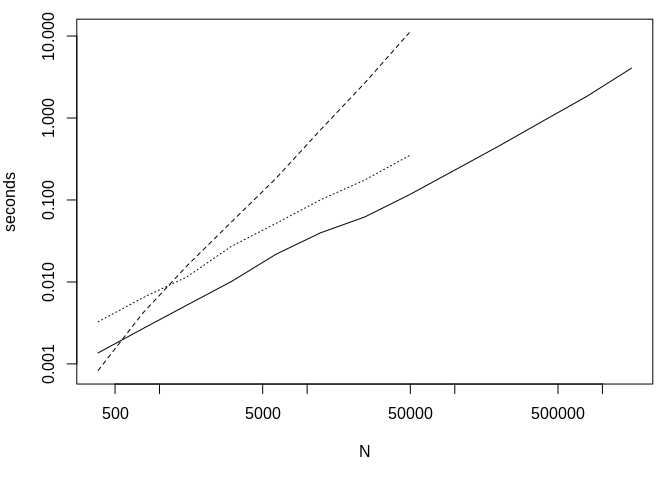
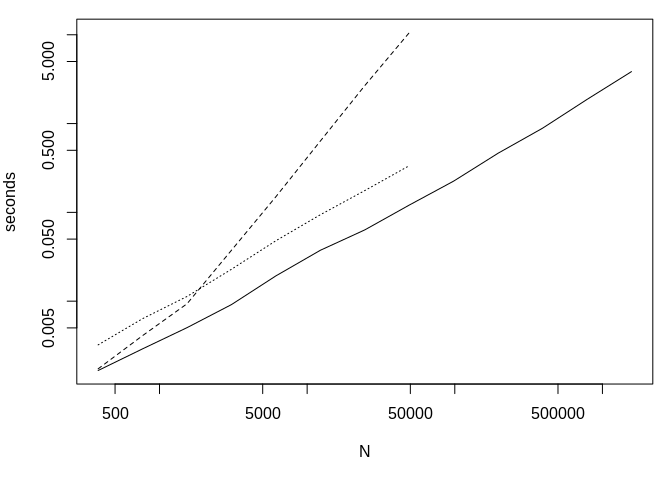
version 0.1.1

diff --git a/src/dists.h b/src/dists.h
@@ -144,6 +144,9 @@ public:
   virtual void comp_stats_state_state
     (const double*, const double*, const double, double*, const comp_out)
     const = 0;
+
+  /* returns the normalization constant */
+  virtual double get_log_norm_const() const = 0;
 };
 
 inline void check_input_mv_log_density_state
@@ -215,6 +218,10 @@ public:
   (const double*, const double*, const double, double*, const comp_out)
   const override final {
     throw logic_error("not implemented");
+  }
+
+  double get_log_norm_const() const override final {
+    return norm_const_log;
   }
 
   /* cdist overrides */
@@ -298,6 +305,10 @@ public:
    const override final
   {
     throw logic_error("not implemented");
+  }
+
+  double get_log_norm_const() const override final {
+    return norm_const_log;
   }
 
   /* proposal_dist overrides */
@@ -416,6 +427,10 @@ public:
   (const double *x, const double *y, const double log_w, double *stat,
    const comp_out what) const override final;
 
+  double get_log_norm_const() const override final {
+    return norm_const_log;
+  }
+
   /* cdist overrides */
   arma::uword state_dim() const override {
     return dim;
@@ -477,12 +492,10 @@ class mv_tdist : public cdist, public trans_obj, public proposal_dist {
   const std::unique_ptr<arma::vec> mu;
   const arma::uword dim;
   const double nu;
-  static double set_const
-    (const double nu, const double dim, const chol_decomp &chol_){
+  const double norm_const_log = ([&]{
     return std::lgamma((dim + nu) * .5) - lgamma(nu * .5) -
       std::log(nu * M_PI) * dim * .5 - .5 * chol_.log_det();
-  }
-  const double norm_const_log = set_const(nu, dim, chol_);
+  })();
 
   static double check_nu(const double nu){
 #ifdef MSSM_DEBUG
@@ -537,6 +550,10 @@ public:
   const override final
   {
     throw logic_error("not implemented");
+  }
+
+  double get_log_norm_const() const override final {
+    return norm_const_log;
   }
 
   /* proposal_dist overrides */

diff --git a/src/cloud.h b/src/cloud.h
@@ -23,13 +23,13 @@ public:
   particle_cloud& operator=(const particle_cloud&) = delete;
   particle_cloud(particle_cloud&&) = default;
 
-  const arma::uword N_particles() const {
+  arma::uword N_particles() const {
     return particles.n_cols;
   }
-  const arma::uword dim_particle() const {
+  arma::uword dim_particle() const {
     return particles.n_rows;
   }
-  const arma::uword dim_stats() const {
+  arma::uword dim_stats() const {
     return stats.n_rows;
   }
 

diff --git a/src/problem_data.h b/src/problem_data.h
@@ -59,7 +59,6 @@ public:
     const std::string&, cvec&, control_obj&&);
   problem_data(const problem_data&) = delete;
   problem_data& operator=(const problem_data&) = delete;
-  problem_data(problem_data&&) = default;
 
   /* returns an object to compute the conditional distribution of the
    * observed outcome at a given time given a state vector */

diff --git a/src/utils.h b/src/utils.h
@@ -104,7 +104,7 @@ public:
   const arma::mat& get_inv() const;
 
   /* returns the log determinant */
-  const double log_det() const {
+  double log_det() const {
     double out = 0.;
     for(arma::uword i = 0; i < chol_.n_cols; ++i)
       out += 2. * std::log(chol_(i, i));

diff --git a/src/laplace.cpp b/src/laplace.cpp
@@ -265,7 +265,7 @@ namespace {
       }
 
       if(!do_hess)
-        return { params, ll };
+        return { params, ll, false };
 
       /* use step halving. First, find direction. Then perform maximization */
       const arma::vec direction = ([&] {

diff --git a/src/kd-tree.h b/src/kd-tree.h
@@ -2,6 +2,7 @@
 #define KD_TREE_H
 #include "arma.h"
 #include "thread_pool.h"
+#include <array>
 
 #ifdef MSSM_DEBUG
 #include <iostream>

diff --git a/README.md b/README.md
@@ -2,22 +2,28 @@
 Multivariate State Space Models
 ===============================
 
-[![Build Status on Travis](https://travis-ci.org/boennecd/mssm.svg?branch=master,osx)](https://travis-ci.org/boennecd/mssm)
+[![Build Status on Travis](https://travis-ci.org/boennecd/mssm.svg?branch=master,osx)](https://travis-ci.org/boennecd/mssm) [![](https://www.r-pkg.org/badges/version/mssm)](https://www.r-pkg.org/badges/version/mssm) [![CRAN RStudio mirror downloads](https://cranlogs.r-pkg.org/badges/mssm)](https://cran.r-project.org/package=mssm)
 
 This package provides methods to estimate models of the form
 
-![y\_{it} \\sim g(\\eta\_{it}),\\qquad i\\in I\_t](https://chart.googleapis.com/chart?cht=tx&chl=y_%7Bit%7D%20%5Csim%20g%28%5Ceta_%7Bit%7D%29%2C%5Cqquad%20i%5Cin%20I_t "y_{it} \sim g(\eta_{it}),\qquad i\in I_t")
+![y\_{it} \\sim g(\\eta\_{it}),\\qquad i\\in I\_t](https://latex.codecogs.com/svg.latex?y_%7Bit%7D%20%5Csim%20g%28%5Ceta_%7Bit%7D%29%2C%5Cqquad%20i%5Cin%20I_t "y_{it} \sim g(\eta_{it}),\qquad i\in I_t")
 
-![\\eta\_{it} = \\vec\\gamma^\\top\\vec x\_{it} +\\vec\\beta\_t^\\top\\vec z\_{it}](https://chart.googleapis.com/chart?cht=tx&chl=%5Ceta_%7Bit%7D%20%3D%20%5Cvec%5Cgamma%5E%5Ctop%5Cvec%20x_%7Bit%7D%20%2B%5Cvec%5Cbeta_t%5E%5Ctop%5Cvec%20z_%7Bit%7D "\eta_{it} = \vec\gamma^\top\vec x_{it} +\vec\beta_t^\top\vec z_{it}")
+![\\eta\_{it} = \\vec\\gamma^\\top\\vec x\_{it} +\\vec\\beta\_t^\\top\\vec z\_{it}](https://latex.codecogs.com/svg.latex?%5Ceta_%7Bit%7D%20%3D%20%5Cvec%5Cgamma%5E%5Ctop%5Cvec%20x_%7Bit%7D%20%2B%5Cvec%5Cbeta_t%5E%5Ctop%5Cvec%20z_%7Bit%7D "\eta_{it} = \vec\gamma^\top\vec x_{it} +\vec\beta_t^\top\vec z_{it}")
 
-![\\vec\\beta\_t = F\\vec\\beta\_{t-1}+\\vec\\epsilon\_t, \\qquad \\vec\\epsilon\_t\\sim N(\\vec 0, Q)](https://chart.googleapis.com/chart?cht=tx&chl=%5Cvec%5Cbeta_t%20%3D%20F%5Cvec%5Cbeta_%7Bt-1%7D%2B%5Cvec%5Cepsilon_t%2C%20%5Cqquad%20%5Cvec%5Cepsilon_t%5Csim%20N%28%5Cvec%200%2C%20Q%29 "\vec\beta_t = F\vec\beta_{t-1}+\vec\epsilon_t, \qquad \vec\epsilon_t\sim N(\vec 0, Q)")
+![\\vec\\beta\_t = F\\vec\\beta\_{t-1}+\\vec\\epsilon\_t, \\qquad \\vec\\epsilon\_t\\sim N(\\vec 0, Q)](https://latex.codecogs.com/svg.latex?%5Cvec%5Cbeta_t%20%3D%20F%5Cvec%5Cbeta_%7Bt-1%7D%2B%5Cvec%5Cepsilon_t%2C%20%5Cqquad%20%5Cvec%5Cepsilon_t%5Csim%20N%28%5Cvec%200%2C%20Q%29 "\vec\beta_t = F\vec\beta_{t-1}+\vec\epsilon_t, \qquad \vec\epsilon_t\sim N(\vec 0, Q)")
 
-where ![g](https://chart.googleapis.com/chart?cht=tx&chl=g "g") is simple distribution, we observe ![t=1,\\dots,T](https://chart.googleapis.com/chart?cht=tx&chl=t%3D1%2C%5Cdots%2CT "t=1,\dots,T") periods, and ![I\_t](https://chart.googleapis.com/chart?cht=tx&chl=I_t "I_t"), ![y\_{it}](https://chart.googleapis.com/chart?cht=tx&chl=y_%7Bit%7D "y_{it}"), ![\\vec x\_{it}](https://chart.googleapis.com/chart?cht=tx&chl=%5Cvec%20x_%7Bit%7D "\vec x_{it}"), and ![\\vec z\_{it}](https://chart.googleapis.com/chart?cht=tx&chl=%5Cvec%20z_%7Bit%7D "\vec z_{it}") are known. What is multivariate is ![\\vec y\_t = \\{y\_{it}\\}\_{i\\in I\_t}](https://chart.googleapis.com/chart?cht=tx&chl=%5Cvec%20y_t%20%3D%20%5C%7By_%7Bit%7D%5C%7D_%7Bi%5Cin%20I_t%7D "\vec y_t = \{y_{it}\}_{i\in I_t}") (though, ![\\vec \\beta\_t](https://chart.googleapis.com/chart?cht=tx&chl=%5Cvec%20%5Cbeta_t "\vec \beta_t") can also be multivariate) and this package is written to scale well in the cardinality of ![I\_t](https://chart.googleapis.com/chart?cht=tx&chl=I_t "I_t"). The package uses independent particle filters as suggested by Lin et al. (2005). This particular type of filter can be used in the method suggested by Poyiadjis, Doucet, and Singh (2011). I will show an example of how to use the package through the rest of the document and highlight some implementation details.
+where ![g](https://latex.codecogs.com/svg.latex?g "g") is simple distribution, we observe ![t=1,\\dots,T](https://latex.codecogs.com/svg.latex?t%3D1%2C%5Cdots%2CT "t=1,\dots,T") periods, and ![I\_t](https://latex.codecogs.com/svg.latex?I_t "I_t"), ![y\_{it}](https://latex.codecogs.com/svg.latex?y_%7Bit%7D "y_{it}"), ![\\vec x\_{it}](https://latex.codecogs.com/svg.latex?%5Cvec%20x_%7Bit%7D "\vec x_{it}"), and ![\\vec z\_{it}](https://latex.codecogs.com/svg.latex?%5Cvec%20z_%7Bit%7D "\vec z_{it}") are known. What is multivariate is ![\\vec y\_t = \\{y\_{it}\\}\_{i\\in I\_t}](https://latex.codecogs.com/svg.latex?%5Cvec%20y_t%20%3D%20%5C%7By_%7Bit%7D%5C%7D_%7Bi%5Cin%20I_t%7D "\vec y_t = \{y_{it}\}_{i\in I_t}") (though, ![\\vec \\beta\_t](https://latex.codecogs.com/svg.latex?%5Cvec%20%5Cbeta_t "\vec \beta_t") can also be multivariate) and this package is written to scale well in the cardinality of ![I\_t](https://latex.codecogs.com/svg.latex?I_t "I_t"). The package uses independent particle filters as suggested by Lin et al. (2005). This particular type of filter can be used in the method suggested by Poyiadjis, Doucet, and Singh (2011). I will show an example of how to use the package through the rest of the document and highlight some implementation details.
 
-The package is not on CRAN but it can be installed from Github e.g., by calling
+The package can be installed from Github e.g., by calling
 
 ``` r
 devtools::install_github("boennecd/mssm")
+```
+
+or from CRAN by calling
+
+``` r
+install.packages("mssm")
 ```
 
 Table of Contents
@@ -204,7 +210,7 @@ system.time(
 ```
 
     ##    user  system elapsed 
-    ##   1.886   0.043   0.479
+    ##   1.944   0.014   0.494
 
 ``` r
 # returns the log-likelihood approximation
@@ -356,7 +362,7 @@ local({
 ```
 
     ##    user  system elapsed 
-    ##   2.026   0.030   0.501
+    ##   2.268   0.048   0.576
 
 ![](man/figures/README-comp_boot-1.png)
 
@@ -391,7 +397,7 @@ system.time(
     ## Mode approxmation failed at least once
 
     ##    user  system elapsed 
-    ##  27.423   0.585   6.639
+    ##  27.203   0.536   6.692
 
 ``` r
 # the function returns an object with the estimated parameters and  
@@ -454,7 +460,7 @@ system.time(
 ```
 
     ##    user  system elapsed 
-    ## 264.088   1.559  60.876
+    ## 212.198   1.331  49.104
 
 ``` r
 # use Adam algorithm instead
@@ -466,7 +472,7 @@ system.time(
 ```
 
     ##    user  system elapsed 
-    ## 225.923   1.362  52.257
+    ## 209.052   1.358  48.496
 
 A plot of the approximate log-likelihoods at each iteration is shown below along with the final estimates.
 
@@ -577,7 +583,7 @@ system.time(
 ```
 
     ##    user  system elapsed 
-    ##  3040.4    26.2   672.0
+    ##  2878.9    23.2   634.6
 
 ``` r
 plot(res_final$logLik, type = "l", ylab = "log-likelihood approximation")
@@ -615,7 +621,7 @@ res_final$cfix
 
 ### Faster Approximation
 
-One drawback with the particle filter we use is that it has ![\\mathcal{O}(N^2)](https://chart.googleapis.com/chart?cht=tx&chl=%5Cmathcal%7BO%7D%28N%5E2%29 "\mathcal{O}(N^2)") computational complexity where ![N](https://chart.googleapis.com/chart?cht=tx&chl=N "N") is the number of particles. We can see this by changing the number of particles.
+One drawback with the particle filter we use is that it has ![\\mathcal{O}(N^2)](https://latex.codecogs.com/svg.latex?%5Cmathcal%7BO%7D%28N%5E2%29 "\mathcal{O}(N^2)") computational complexity where ![N](https://latex.codecogs.com/svg.latex?N "N") is the number of particles. We can see this by changing the number of particles.
 
 ``` r
 local({
@@ -648,13 +654,13 @@ local({
 
     ## Unit: milliseconds
     ##  expr     min      lq    mean  median      uq     max neval
-    ##   100   67.03   69.46   70.39   71.88   72.06   72.24     3
-    ##   200  139.53  139.93  144.33  140.33  146.73  153.14     3
-    ##   400  378.69  393.77  403.73  408.86  416.24  423.63     3
-    ##   800 1054.68 1065.89 1079.50 1077.10 1091.90 1106.71     3
-    ##  1600 3417.77 3559.24 3653.73 3700.71 3771.71 3842.70     3
+    ##   100   68.88   72.13   75.57   75.37   78.92   82.47     3
+    ##   200  129.27  141.90  149.55  154.53  159.69  164.84     3
+    ##   400  404.68  412.07  415.49  419.47  420.90  422.32     3
+    ##   800 1029.99 1109.39 1149.03 1188.80 1208.55 1228.30     3
+    ##  1600 3387.65 3429.32 3457.94 3470.99 3493.08 3515.17     3
 
-A solution is to use the dual k-d tree method I cover later. The computational complexity is ![\\mathcal{O}(N \\log N)](https://chart.googleapis.com/chart?cht=tx&chl=%5Cmathcal%7BO%7D%28N%20%5Clog%20N%29 "\mathcal{O}(N \log N)") for this method which is somewhat indicated by the run times shown below.
+A solution is to use the dual k-d tree method I cover later. The computational complexity is ![\\mathcal{O}(N \\log N)](https://latex.codecogs.com/svg.latex?%5Cmathcal%7BO%7D%28N%20%5Clog%20N%29 "\mathcal{O}(N \log N)") for this method which is somewhat indicated by the run times shown below.
 
 ``` r
 local({
@@ -689,22 +695,22 @@ local({
 
     ## Unit: milliseconds
     ##   expr    min     lq   mean median     uq    max neval
-    ##    100  105.2  108.4  110.0  111.7  112.4  113.1     3
-    ##    200  197.6  201.9  210.9  206.3  217.5  228.8     3
-    ##    400  411.5  419.8  430.7  428.0  440.2  452.5     3
-    ##    800  843.9  850.3  855.5  856.7  861.3  865.9     3
-    ##   1600 1532.9 1600.8 1666.4 1668.7 1733.2 1797.7     3
-    ##  12800 8485.8 8563.2 8590.6 8640.6 8643.0 8645.4     3
+    ##    100  112.1  118.1  123.8  124.1  129.6  135.0     3
+    ##    200  205.5  225.7  238.9  245.9  255.6  265.4     3
+    ##    400  407.3  418.0  443.3  428.7  461.2  493.8     3
+    ##    800  845.1  875.4  898.9  905.7  925.8  945.9     3
+    ##   1600 1537.7 1555.8 1571.8 1573.8 1588.8 1603.8     3
+    ##  12800 8160.8 8161.0 8269.1 8161.3 8323.3 8485.3     3
 
-The `aprx_eps` controls the size of the error. To be precise about what this value does then we need to some notation for the complete likelihood (the likelihood where we observe ![\\vec\\beta\_1,\\dots,\\vec\\beta\_T](https://chart.googleapis.com/chart?cht=tx&chl=%5Cvec%5Cbeta_1%2C%5Cdots%2C%5Cvec%5Cbeta_T "\vec\beta_1,\dots,\vec\beta_T")s). This is
+The `aprx_eps` controls the size of the error. To be precise about what this value does then we need to some notation for the complete likelihood (the likelihood where we observe ![\\vec\\beta\_1,\\dots,\\vec\\beta\_T](https://latex.codecogs.com/svg.latex?%5Cvec%5Cbeta_1%2C%5Cdots%2C%5Cvec%5Cbeta_T "\vec\beta_1,\dots,\vec\beta_T")s). This is
 
-![L = \\mu\_1(\\vec \\beta\_1)g\_1(\\vec y\_1 \\mid \\vec \\beta\_1)\\prod\_{t=2}^Tf(\\vec\\beta\_t \\mid\\vec\\beta\_{t-1})g\_t(y\_t\\mid\\beta\_t)](https://chart.googleapis.com/chart?cht=tx&chl=L%20%3D%20%5Cmu_1%28%5Cvec%20%5Cbeta_1%29g_1%28%5Cvec%20y_1%20%5Cmid%20%5Cvec%20%5Cbeta_1%29%5Cprod_%7Bt%3D2%7D%5ETf%28%5Cvec%5Cbeta_t%20%5Cmid%5Cvec%5Cbeta_%7Bt-1%7D%29g_t%28y_t%5Cmid%5Cbeta_t%29 "L = \mu_1(\vec \beta_1)g_1(\vec y_1 \mid \vec \beta_1)\prod_{t=2}^Tf(\vec\beta_t \mid\vec\beta_{t-1})g_t(y_t\mid\beta_t)")
+![L = \\mu\_1(\\vec \\beta\_1)g\_1(\\vec y\_1 \\mid \\vec \\beta\_1)\\prod\_{t=2}^Tf(\\vec\\beta\_t \\mid\\vec\\beta\_{t-1})g\_t(y\_t\\mid\\beta\_t)](https://latex.codecogs.com/svg.latex?L%20%3D%20%5Cmu_1%28%5Cvec%20%5Cbeta_1%29g_1%28%5Cvec%20y_1%20%5Cmid%20%5Cvec%20%5Cbeta_1%29%5Cprod_%7Bt%3D2%7D%5ETf%28%5Cvec%5Cbeta_t%20%5Cmid%5Cvec%5Cbeta_%7Bt-1%7D%29g_t%28y_t%5Cmid%5Cbeta_t%29 "L = \mu_1(\vec \beta_1)g_1(\vec y_1 \mid \vec \beta_1)\prod_{t=2}^Tf(\vec\beta_t \mid\vec\beta_{t-1})g_t(y_t\mid\beta_t)")
 
-where ![g\_t](https://chart.googleapis.com/chart?cht=tx&chl=g_t "g_t") is conditional distribution ![\\vec y\_t](https://chart.googleapis.com/chart?cht=tx&chl=%5Cvec%20y_t "\vec y_t") given ![\\vec\\beta\_t](https://chart.googleapis.com/chart?cht=tx&chl=%5Cvec%5Cbeta_t "\vec\beta_t"), ![f](https://chart.googleapis.com/chart?cht=tx&chl=f "f") is the conditional distribution of ![\\vec\\beta\_t](https://chart.googleapis.com/chart?cht=tx&chl=%5Cvec%5Cbeta_t "\vec\beta_t") given ![\\vec\\beta\_{t-1}](https://chart.googleapis.com/chart?cht=tx&chl=%5Cvec%5Cbeta_%7Bt-1%7D "\vec\beta_{t-1}"), and ![\\mu](https://chart.googleapis.com/chart?cht=tx&chl=%5Cmu "\mu") is the time-invariant distribution of ![\\vec\\beta\_t](https://chart.googleapis.com/chart?cht=tx&chl=%5Cvec%5Cbeta_t "\vec\beta_t"). Let ![w\_t^{(j)}](https://chart.googleapis.com/chart?cht=tx&chl=w_t%5E%7B%28j%29%7D "w_t^{(j)}") be the weight of particle ![j](https://chart.googleapis.com/chart?cht=tx&chl=j "j") at time ![t](https://chart.googleapis.com/chart?cht=tx&chl=t "t") and ![\\vec \\beta\_t^{(j)}](https://chart.googleapis.com/chart?cht=tx&chl=%5Cvec%20%5Cbeta_t%5E%7B%28j%29%7D "\vec \beta_t^{(j)}") be the ![j](https://chart.googleapis.com/chart?cht=tx&chl=j "j")th particle at time ![t](https://chart.googleapis.com/chart?cht=tx&chl=t "t"). Then we ensure the error in our evaluation of terms ![w\_{t-1}^{(j)}f(\\vec\\beta\_t^{(i)} \\mid \\vec\\beta\_{t-1}^{(j)})](https://chart.googleapis.com/chart?cht=tx&chl=w_%7Bt-1%7D%5E%7B%28j%29%7Df%28%5Cvec%5Cbeta_t%5E%7B%28i%29%7D%20%5Cmid%20%5Cvec%5Cbeta_%7Bt-1%7D%5E%7B%28j%29%7D%29 "w_{t-1}^{(j)}f(\vec\beta_t^{(i)} \mid \vec\beta_{t-1}^{(j)})") never exceeds
+where ![g\_t](https://latex.codecogs.com/svg.latex?g_t "g_t") is conditional distribution ![\\vec y\_t](https://latex.codecogs.com/svg.latex?%5Cvec%20y_t "\vec y_t") given ![\\vec\\beta\_t](https://latex.codecogs.com/svg.latex?%5Cvec%5Cbeta_t "\vec\beta_t"), ![f](https://latex.codecogs.com/svg.latex?f "f") is the conditional distribution of ![\\vec\\beta\_t](https://latex.codecogs.com/svg.latex?%5Cvec%5Cbeta_t "\vec\beta_t") given ![\\vec\\beta\_{t-1}](https://latex.codecogs.com/svg.latex?%5Cvec%5Cbeta_%7Bt-1%7D "\vec\beta_{t-1}"), and ![\\mu](https://latex.codecogs.com/svg.latex?%5Cmu "\mu") is the time-invariant distribution of ![\\vec\\beta\_t](https://latex.codecogs.com/svg.latex?%5Cvec%5Cbeta_t "\vec\beta_t"). Let ![w\_t^{(j)}](https://latex.codecogs.com/svg.latex?w_t%5E%7B%28j%29%7D "w_t^{(j)}") be the weight of particle ![j](https://latex.codecogs.com/svg.latex?j "j") at time ![t](https://latex.codecogs.com/svg.latex?t "t") and ![\\vec \\beta\_t^{(j)}](https://latex.codecogs.com/svg.latex?%5Cvec%20%5Cbeta_t%5E%7B%28j%29%7D "\vec \beta_t^{(j)}") be the ![j](https://latex.codecogs.com/svg.latex?j "j")th particle at time ![t](https://latex.codecogs.com/svg.latex?t "t"). Then we ensure the error in our evaluation of terms ![w\_{t-1}^{(j)}f(\\vec\\beta\_t^{(i)} \\mid \\vec\\beta\_{t-1}^{(j)})](https://latex.codecogs.com/svg.latex?w_%7Bt-1%7D%5E%7B%28j%29%7Df%28%5Cvec%5Cbeta_t%5E%7B%28i%29%7D%20%5Cmid%20%5Cvec%5Cbeta_%7Bt-1%7D%5E%7B%28j%29%7D%29 "w_{t-1}^{(j)}f(\vec\beta_t^{(i)} \mid \vec\beta_{t-1}^{(j)})") never exceeds
 
-![w\_{t-1}^{(j)} \\frac{u - l}{(u + l)/2}](https://chart.googleapis.com/chart?cht=tx&chl=w_%7Bt-1%7D%5E%7B%28j%29%7D%20%5Cfrac%7Bu%20-%20l%7D%7B%28u%20%2B%20l%29%2F2%7D "w_{t-1}^{(j)} \frac{u - l}{(u + l)/2}")
+![w\_{t-1}^{(j)} \\frac{u - l}{(u + l)/2}](https://latex.codecogs.com/svg.latex?w_%7Bt-1%7D%5E%7B%28j%29%7D%20%5Cfrac%7Bu%20-%20l%7D%7B%28u%20%2B%20l%29%2F2%7D "w_{t-1}^{(j)} \frac{u - l}{(u + l)/2}")
 
- where ![u](https://chart.googleapis.com/chart?cht=tx&chl=u "u") and ![l](https://chart.googleapis.com/chart?cht=tx&chl=l "l") are respectively an upper and lower bound of ![f(\\vec\\beta\_t^{(i)} \\mid \\vec\\beta\_{t-1}^{(j)})](https://chart.googleapis.com/chart?cht=tx&chl=f%28%5Cvec%5Cbeta_t%5E%7B%28i%29%7D%20%5Cmid%20%5Cvec%5Cbeta_%7Bt-1%7D%5E%7B%28j%29%7D%29 "f(\vec\beta_t^{(i)} \mid \vec\beta_{t-1}^{(j)})"). The question is how big the error is. Thus, we consider the error in the log-likelihood approximation at the true parameters.
+ where ![u](https://latex.codecogs.com/svg.latex?u "u") and ![l](https://latex.codecogs.com/svg.latex?l "l") are respectively an upper and lower bound of ![f(\\vec\\beta\_t^{(i)} \\mid \\vec\\beta\_{t-1}^{(j)})](https://latex.codecogs.com/svg.latex?f%28%5Cvec%5Cbeta_t%5E%7B%28i%29%7D%20%5Cmid%20%5Cvec%5Cbeta_%7Bt-1%7D%5E%7B%28j%29%7D%29 "f(\vec\beta_t^{(i)} \mid \vec\beta_{t-1}^{(j)})"). The question is how big the error is. Thus, we consider the error in the log-likelihood approximation at the true parameters.
 
 ``` r
 ll_compare <- local({
@@ -841,7 +847,7 @@ system.time(
 ```
 
     ##    user  system elapsed 
-    ##  349.47    1.43   76.01
+    ## 327.563   1.297  71.051
 
 We define a function below to get the approximate gradient and approximate observed information matrix from the returned object. Then we compare the output to the GLM we estimated and to the true parameters.
 
@@ -994,16 +1000,16 @@ The following families are supported:
 Fast Sum-Kernel Approximation
 -----------------------------
 
-This package contains a simple implementation of the dual-tree method like the one suggested by Gray and Moore (2003) and shown in Klaas et al. (2006). The problem we want to solve is the sum-kernel problem in Klaas et al. (2006). Particularly, we consider the situation where we have ![1,\\dots,N\_q](https://chart.googleapis.com/chart?cht=tx&chl=1%2C%5Cdots%2CN_q "1,\dots,N_q") query particles denoted by ![\\{\\vec Y\_i\\}\_{i=1,\\dots,N\_q}](https://chart.googleapis.com/chart?cht=tx&chl=%5C%7B%5Cvec%20Y_i%5C%7D_%7Bi%3D1%2C%5Cdots%2CN_q%7D "\{\vec Y_i\}_{i=1,\dots,N_q}") and ![1,\\dots,N\_s](https://chart.googleapis.com/chart?cht=tx&chl=1%2C%5Cdots%2CN_s "1,\dots,N_s") source particles denoted by ![\\{\\vec X\_j\\}\_{j=1,\\dots,N\_s}](https://chart.googleapis.com/chart?cht=tx&chl=%5C%7B%5Cvec%20X_j%5C%7D_%7Bj%3D1%2C%5Cdots%2CN_s%7D "\{\vec X_j\}_{j=1,\dots,N_s}"). For each query particle, we want to compute the weights
+This package contains a simple implementation of the dual-tree method like the one suggested by Gray and Moore (2003) and shown in Klaas et al. (2006). The problem we want to solve is the sum-kernel problem in Klaas et al. (2006). Particularly, we consider the situation where we have ![1,\\dots,N\_q](https://latex.codecogs.com/svg.latex?1%2C%5Cdots%2CN_q "1,\dots,N_q") query particles denoted by ![\\{\\vec Y\_i\\}\_{i=1,\\dots,N\_q}](https://latex.codecogs.com/svg.latex?%5C%7B%5Cvec%20Y_i%5C%7D_%7Bi%3D1%2C%5Cdots%2CN_q%7D "\{\vec Y_i\}_{i=1,\dots,N_q}") and ![1,\\dots,N\_s](https://latex.codecogs.com/svg.latex?1%2C%5Cdots%2CN_s "1,\dots,N_s") source particles denoted by ![\\{\\vec X\_j\\}\_{j=1,\\dots,N\_s}](https://latex.codecogs.com/svg.latex?%5C%7B%5Cvec%20X_j%5C%7D_%7Bj%3D1%2C%5Cdots%2CN_s%7D "\{\vec X_j\}_{j=1,\dots,N_s}"). For each query particle, we want to compute the weights
 
-![W\_i = \\frac{\\tilde W\_i}{\\sum\_{k = 1}^{N\_q} \\tilde W\_i},\\qquad \\tilde W\_i = \\sum\_{j=1}^{N\_s} \\bar W\_j K(\\vec Y\_i, \\vec X\_j)](https://chart.googleapis.com/chart?cht=tx&chl=W_i%20%3D%20%5Cfrac%7B%5Ctilde%20W_i%7D%7B%5Csum_%7Bk%20%3D%201%7D%5E%7BN_q%7D%20%5Ctilde%20W_i%7D%2C%5Cqquad%20%5Ctilde%20W_i%20%3D%20%5Csum_%7Bj%3D1%7D%5E%7BN_s%7D%20%5Cbar%20W_j%20K%28%5Cvec%20Y_i%2C%20%5Cvec%20X_j%29 "W_i = \frac{\tilde W_i}{\sum_{k = 1}^{N_q} \tilde W_i},\qquad \tilde W_i = \sum_{j=1}^{N_s} \bar W_j K(\vec Y_i, \vec X_j)")
+![W\_i = \\frac{\\tilde W\_i}{\\sum\_{k = 1}^{N\_q} \\tilde W\_i},\\qquad \\tilde W\_i = \\sum\_{j=1}^{N\_s} \\bar W\_j K(\\vec Y\_i, \\vec X\_j)](https://latex.codecogs.com/svg.latex?W_i%20%3D%20%5Cfrac%7B%5Ctilde%20W_i%7D%7B%5Csum_%7Bk%20%3D%201%7D%5E%7BN_q%7D%20%5Ctilde%20W_i%7D%2C%5Cqquad%20%5Ctilde%20W_i%20%3D%20%5Csum_%7Bj%3D1%7D%5E%7BN_s%7D%20%5Cbar%20W_j%20K%28%5Cvec%20Y_i%2C%20%5Cvec%20X_j%29 "W_i = \frac{\tilde W_i}{\sum_{k = 1}^{N_q} \tilde W_i},\qquad \tilde W_i = \sum_{j=1}^{N_s} \bar W_j K(\vec Y_i, \vec X_j)")
 
-where each source particle has an associated weight ![\\bar W\_j](https://chart.googleapis.com/chart?cht=tx&chl=%5Cbar%20W_j "\bar W_j") and ![K](https://chart.googleapis.com/chart?cht=tx&chl=K "K") is a kernel. Computing the above is ![\\mathcal{O}(N\_sN\_q)](https://chart.googleapis.com/chart?cht=tx&chl=%5Cmathcal%7BO%7D%28N_sN_q%29 "\mathcal{O}(N_sN_q)") which is major bottleneck if ![N\_s](https://chart.googleapis.com/chart?cht=tx&chl=N_s "N_s") and ![N\_q](https://chart.googleapis.com/chart?cht=tx&chl=N_q "N_q") is large. However, one can use a [k-d tree](https://en.wikipedia.org/wiki/K-d_tree) for the query particles and source particles and exploit that:
+where each source particle has an associated weight ![\\bar W\_j](https://latex.codecogs.com/svg.latex?%5Cbar%20W_j "\bar W_j") and ![K](https://latex.codecogs.com/svg.latex?K "K") is a kernel. Computing the above is ![\\mathcal{O}(N\_sN\_q)](https://latex.codecogs.com/svg.latex?%5Cmathcal%7BO%7D%28N_sN_q%29 "\mathcal{O}(N_sN_q)") which is major bottleneck if ![N\_s](https://latex.codecogs.com/svg.latex?N_s "N_s") and ![N\_q](https://latex.codecogs.com/svg.latex?N_q "N_q") is large. However, one can use a [k-d tree](https://en.wikipedia.org/wiki/K-d_tree) for the query particles and source particles and exploit that:
 
--   ![W\_j K(\\vec Y\_i, \\vec X\_j)](https://chart.googleapis.com/chart?cht=tx&chl=W_j%20K%28%5Cvec%20Y_i%2C%20%5Cvec%20X_j%29 "W_j K(\vec Y_i, \vec X_j)") is almost zero for some pairs of nodes in the two k-d trees.
--   ![K(\\cdot, \\vec X\_j)](https://chart.googleapis.com/chart?cht=tx&chl=K%28%5Ccdot%2C%20%5Cvec%20X_j%29 "K(\cdot, \vec X_j)") is almost identical for some nodes in the k-d tree for the source particles.
+-   ![W\_j K(\\vec Y\_i, \\vec X\_j)](https://latex.codecogs.com/svg.latex?W_j%20K%28%5Cvec%20Y_i%2C%20%5Cvec%20X_j%29 "W_j K(\vec Y_i, \vec X_j)") is almost zero for some pairs of nodes in the two k-d trees.
+-   ![K(\\cdot, \\vec X\_j)](https://latex.codecogs.com/svg.latex?K%28%5Ccdot%2C%20%5Cvec%20X_j%29 "K(\cdot, \vec X_j)") is almost identical for some nodes in the k-d tree for the source particles.
 
-Thus, a substantial amount of computation can be skipped or approximated with e.g., the centroid in the source node with only a minor loss of precision. The dual-tree approximation method is ![\\mathcal{O}(N\_s\\log N\_s)](https://chart.googleapis.com/chart?cht=tx&chl=%5Cmathcal%7BO%7D%28N_s%5Clog%20N_s%29 "\mathcal{O}(N_s\log N_s)") and ![\\mathcal{O}(N\_q\\log N\_q)](https://chart.googleapis.com/chart?cht=tx&chl=%5Cmathcal%7BO%7D%28N_q%5Clog%20N_q%29 "\mathcal{O}(N_q\log N_q)"). We start by defining a function to simulate the source and query particles (we will let the two sets be identical for simplicity). Further, we plot one draw of simulated points and illustrate the leafs in the k-d tree.
+Thus, a substantial amount of computation can be skipped or approximated with e.g., the centroid in the source node with only a minor loss of precision. The dual-tree approximation method is ![\\mathcal{O}(N\_s\\log N\_s)](https://latex.codecogs.com/svg.latex?%5Cmathcal%7BO%7D%28N_s%5Clog%20N_s%29 "\mathcal{O}(N_s\log N_s)") and ![\\mathcal{O}(N\_q\\log N\_q)](https://latex.codecogs.com/svg.latex?%5Cmathcal%7BO%7D%28N_q%5Clog%20N_q%29 "\mathcal{O}(N_q\log N_q)"). We start by defining a function to simulate the source and query particles (we will let the two sets be identical for simplicity). Further, we plot one draw of simulated points and illustrate the leafs in the k-d tree.
 
 ``` r
 ######
@@ -1060,7 +1066,7 @@ invisible(lapply(borders, function(b)
 
 ![](man/figures/README-sim_func-1.png)
 
-Next, we compute the run-times for the previous examples and compare the approximations of the un-normalized log weights, ![\\log \\tilde W\_i](https://chart.googleapis.com/chart?cht=tx&chl=%5Clog%20%5Ctilde%20W_i "\log \tilde W_i"), and normalized weights, ![W\_i](https://chart.googleapis.com/chart?cht=tx&chl=W_i "W_i"). The `n_threads` sets the number of threads to use in the methods.
+Next, we compute the run-times for the previous examples and compare the approximations of the un-normalized log weights, ![\\log \\tilde W\_i](https://latex.codecogs.com/svg.latex?%5Clog%20%5Ctilde%20W_i "\log \tilde W_i"), and normalized weights, ![W\_i](https://latex.codecogs.com/svg.latex?W_i "W_i"). The `n_threads` sets the number of threads to use in the methods.
 
 ``` r
 # run-times
@@ -1076,10 +1082,10 @@ microbenchmark::microbenchmark(
 
     ## Unit: milliseconds
     ##         expr     min      lq    mean  median      uq     max neval
-    ##  dual tree 1  108.16  111.88  117.78  114.84  122.41  141.27    10
-    ##  dual tree 4   43.01   49.26   49.92   50.74   51.59   52.45    10
-    ##      naive 1 3427.21 3518.42 3604.04 3570.39 3635.91 3891.05    10
-    ##      naive 4 1029.27 1162.26 1227.41 1209.31 1248.88 1586.08    10
+    ##  dual tree 1  110.13  112.64  166.98  116.79  241.55  330.79    10
+    ##  dual tree 4   41.16   41.33   49.36   50.73   53.68   63.35    10
+    ##      naive 1 3312.61 3342.68 3638.94 3434.74 3547.45 5565.56    10
+    ##      naive 4  909.17 1018.03 1113.10 1079.78 1129.06 1592.45    10
 
 ``` r
 # The functions return the un-normalized log weights. We first compare
@@ -1123,7 +1129,7 @@ hist((o1 - o2)/ abs((o1 + o2) / 2), breaks = 50, main = "",
 
 ![](man/figures/README-comp_run_times-2.png)
 
-Finally, we compare the run-times as function of ![N = N\_s = N\_q](https://chart.googleapis.com/chart?cht=tx&chl=N%20%3D%20N_s%20%3D%20N_q "N = N_s = N_q"). The dashed line is "naive" method, the continuous line is the dual-tree method, and the dotted line is dual-tree method using 1 thread.
+Finally, we compare the run-times as function of ![N = N\_s = N\_q](https://latex.codecogs.com/svg.latex?N%20%3D%20N_s%20%3D%20N_q "N = N_s = N_q"). The dashed line is "naive" method, the continuous line is the dual-tree method, and the dotted line is dual-tree method using 1 thread.
 
 ``` r
 Ns <- 2^(7:14)
@@ -1160,20 +1166,20 @@ meds
 ```
 
     ##          method
-    ## N         Dual-tree      Naive Dual-tree 1
-    ##   384      0.001365  0.0008318    0.003265
-    ##   768      0.002684  0.0041390    0.006397
-    ##   1536     0.005228  0.0157515    0.011550
-    ##   3072     0.010133  0.0539967    0.027241
-    ##   6144     0.021763  0.1832133    0.051753
-    ##   12288    0.039704  0.7137595    0.100299
-    ##   24576    0.062140  2.6771194    0.175375
-    ##   49152    0.115722 10.9796716    0.347602
-    ##   98304    0.227879         NA          NA
-    ##   196608   0.450209         NA          NA
-    ##   393216   0.913649         NA          NA
-    ##   786432   1.844256         NA          NA
-    ##   1572864  4.057902         NA          NA
+    ## N         Dual-tree     Naive Dual-tree 1
+    ##   384      0.001656  0.001729    0.003219
+    ##   768      0.002904  0.004090    0.006349
+    ##   1536     0.005031  0.009342    0.011293
+    ##   3072     0.009151  0.037434    0.022862
+    ##   6144     0.019268  0.150112    0.047924
+    ##   12288    0.037420  0.635375    0.094008
+    ##   24576    0.063480  2.676045    0.175921
+    ##   49152    0.120780 10.544569    0.335214
+    ##   98304    0.224966        NA          NA
+    ##   196608   0.463704        NA          NA
+    ##   393216   0.887116        NA          NA
+    ##   786432   1.870536        NA          NA
+    ##   1572864  3.845212        NA          NA
 
 ``` r
 par(mar = c(5, 4, 1, 1))
@@ -1461,10 +1467,10 @@ References
 
 Gray, Alexander G., and Andrew W. Moore. 2003. “Rapid Evaluation of Multiple Density Models.” In *AISTATS*.
 
-Klaas, Mike, Mark Briers, Nando de Freitas, Arnaud Doucet, Simon Maskell, and Dustin Lang. 2006. “Fast Particle Smoothing: If I Had a Million Particles.” In *Proceedings of the 23rd International Conference on Machine Learning*, 481–88. ICML ’06. New York, NY, USA: ACM. <http://doi.acm.org/10.1145/1143844.1143905>.
+Klaas, Mike, Mark Briers, Nando de Freitas, Arnaud Doucet, Simon Maskell, and Dustin Lang. 2006. “Fast Particle Smoothing: If I Had a Million Particles.” In *Proceedings of the 23rd International Conference on Machine Learning*, 481–88. ICML ’06. New York, NY, USA: ACM. <https://doi.acm.org/10.1145/1143844.1143905>.
 
-Lin, Ming T, Junni L Zhang, Qiansheng Cheng, and Rong Chen. 2005. “Independent Particle Filters.” *Journal of the American Statistical Association* 100 (472). Taylor & Francis: 1412–21. doi:[10.1198/016214505000000349](https://doi.org/10.1198/016214505000000349).
+Lin, Ming T, Junni L Zhang, Qiansheng Cheng, and Rong Chen. 2005. “Independent Particle Filters.” *Journal of the American Statistical Association* 100 (472). Taylor & Francis: 1412–21. <https://doi.org/10.1198/016214505000000349>.
 
-Polyak, B., and A. Juditsky. 1992. “Acceleration of Stochastic Approximation by Averaging.” *SIAM Journal on Control and Optimization* 30 (4): 838–55. doi:[10.1137/0330046](https://doi.org/10.1137/0330046).
+Polyak, B., and A. Juditsky. 1992. “Acceleration of Stochastic Approximation by Averaging.” *SIAM Journal on Control and Optimization* 30 (4): 838–55. <https://doi.org/10.1137/0330046>.
 
-Poyiadjis, George, Arnaud Doucet, and Sumeetpal S. Singh. 2011. “Particle Approximations of the Score and Observed Information Matrix in State Space Models with Application to Parameter Estimation.” *Biometrika* 98 (1). Biometrika Trust: 65–80. <http://www.jstor.org/stable/29777165>.
+Poyiadjis, George, Arnaud Doucet, and Sumeetpal S. Singh. 2011. “Particle Approximations of the Score and Observed Information Matrix in State Space Models with Application to Parameter Estimation.” *Biometrika* 98 (1). Biometrika Trust: 65–80. <https://www.jstor.org/stable/29777165>.
